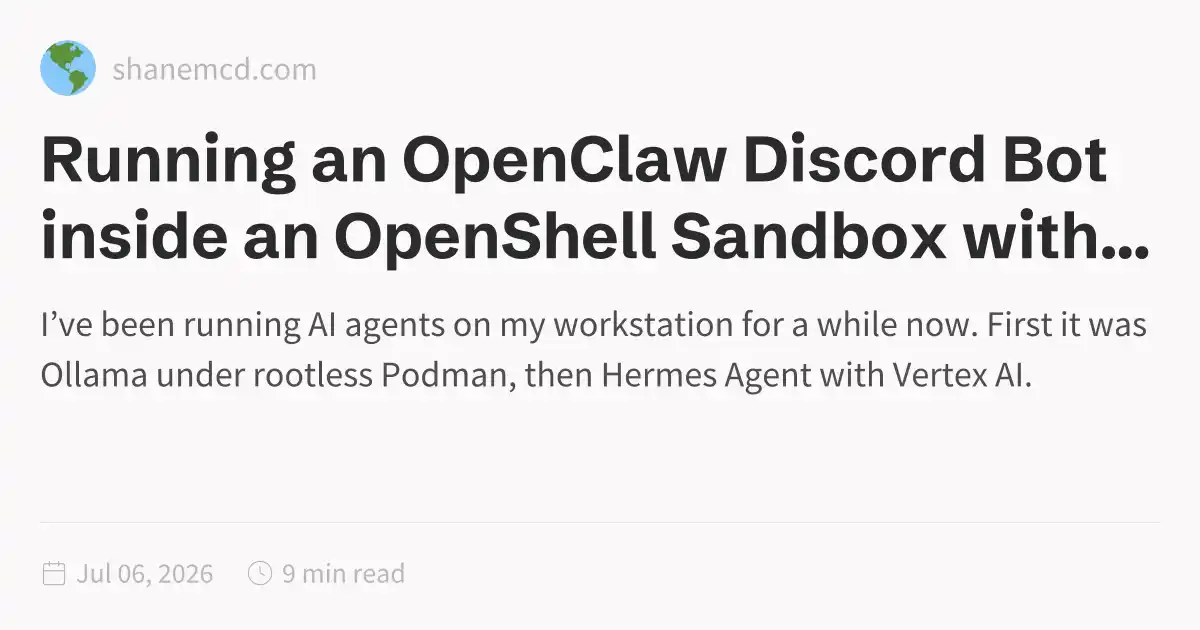
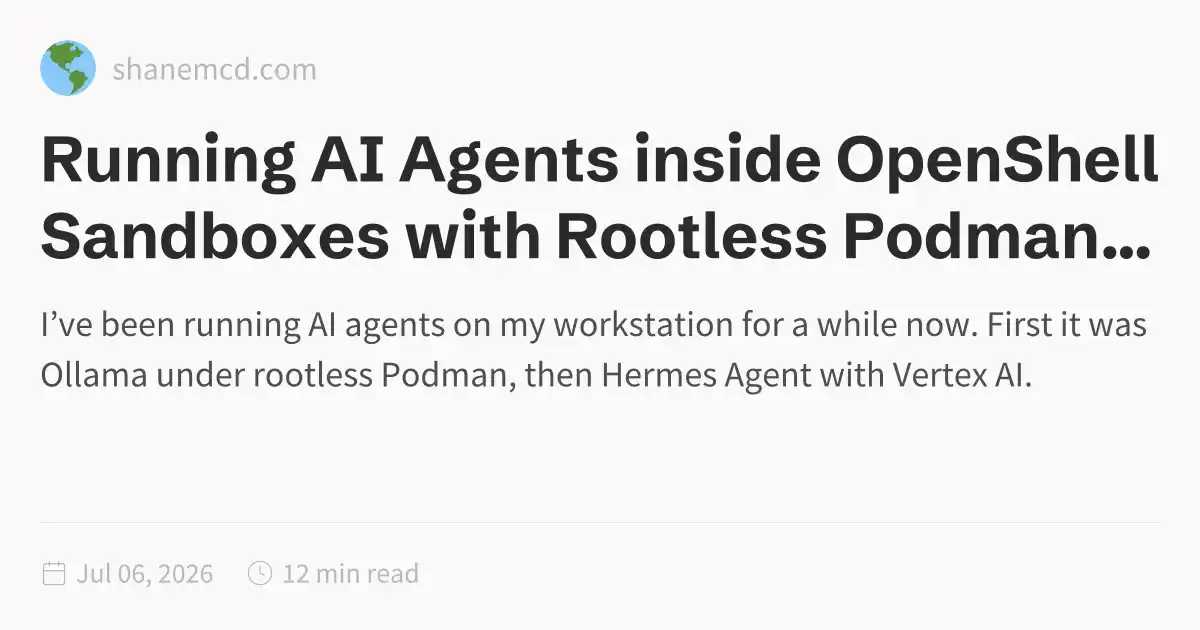
Deploying to gh-pages from @ shanemcd/shanemcd.github.io@943af0d9efcf434de962acb4c6c6cefce33f4240 🚀

Changed region(s): [[0.0308, 0.2111, 0.9867, 0.4222], [0.2158, 0.9048, 0.37, 0.9349], [0.925, 0.3921, 0.9558, 0.4222]]

diff --git a/index.html b/index.html
@@ -116,7 +116,7 @@ pre:hover > .expand-button {
   padding: 0 12px;
   font-size: 14px;
 }
[2 lines of base64/hex data omitted]
 live in Jersey City NJ with my lovely wife Chao, along with our cat Milla and
 our dog Rodger. I am currently employed by <a href="https://www.redhat.com" class="external">Red Hat<svg aria-hidden="true" class="external-icon" style="max-width:0.8em;max-height:0.8em;" viewBox="0 0 512 512"><path d="M320 0H288V64h32 82.7L201.4 265.4 178.7 288 224 333.3l22.6-22.6L448 109.3V192v32h64V192 32 0H480 320zM32 32H0V64 480v32H32 456h32V480 352 320H424v32 96H64V96h96 32V32H160 32z"></path></svg></a> as
 one of the lead engineers for <a href="https://github.com/ansible" class="external">Ansible<svg aria-hidden="true" class="external-icon" style="max-width:0.8em;max-height:0.8em;" viewBox="0 0 512 512"><path d="M320 0H288V64h32 82.7L201.4 265.4 178.7 288 224 333.3l22.6-22.6L448 109.3V192v32h64V192 32 0H480 320zM32 32H0V64 480v32H32 456h32V480 352 320H424v32 96H64V96h96 32V32H160 32z"></path></svg></a>.</p>

diff --git a/posts/03-ollama-rootless-podman-quadlet.html b/posts/03-ollama-rootless-podman-quadlet.html
@@ -172,6 +172,6 @@ $ systemctl --user start ollama.service
                 C46.042,11.405,47.451,12,49,12c3.309,0,6-2.691,6-6S52.309,0,49,0z M11,9c0-1.103,0.897-2,2-2s2,0.897,2,2s-0.897,2-2,2
                 S11,10.103,11,9z M6,51c-2.206,0-4-1.794-4-4s1.794-4,4-4s4,1.794,4,4S8.206,51,6,51z M33,49c0,2.206-1.794,4-4,4s-4-1.794-4-4
                 s1.794-4,4-4S33,46.794,33,49z M29,31c-3.309,0-6-2.691-6-6s2.691-6,6-6s6,2.691,6,6S32.309,31,29,31z M47,41c0,1.103-0.897,2-2,2
-                s-2-0.897-2-2s0.897-2,2-2S47,39.897,47,41z M49,10c-2.206,0-4-1.794-4-4s1.794-4,4-4s4,1.794,4,4S51.206,10,49,10z"></path></svg></button></div><div class="global-graph-outer"><div class="global-graph-container" data-cfg="{&quot;drag&quot;:true,&quot;zoom&quot;:true,&quot;depth&quot;:-1,&quot;scale&quot;:0.9,&quot;repelForce&quot;:0.5,&quot;centerForce&quot;:0.2,&quot;linkDistance&quot;:30,&quot;fontSize&quot;:0.6,&quot;opacityScale&quot;:1,&quot;showTags&quot;:true,&quot;removeTags&quot;:[],&quot;focusOnHover&quot;:true,&quot;enableRadial&quot;:true}"></div></div></div><div class="toc desktop-only"><button type="button" class="toc-header" aria-controls="toc-content" aria-expanded="true"><h3>Table of Contents</h3><svg xmlns="http://www.w3.org/2000/svg" width="24" height="24" viewBox="0 0 24 24" fill="none" stroke="currentColor" stroke-width="2" stroke-linecap="round" stroke-linejoin="round" class="fold"><polyline points="6 9 12 15 18 9"></polyline></svg></button><ul class="toc-content overflow" id="list-0"><li class="depth-0"><a href="#nvidia-gpu-support" data-for="nvidia-gpu-support">NVIDIA GPU support</a></li><li class="depth-1"><a href="#generating-the-cdi-specification-file" data-for="generating-the-cdi-specification-file">Generating the CDI specification file</a></li><li class="depth-0"><a href="#ollama-with-podman-and-quadlet" data-for="ollama-with-podman-and-quadlet">Ollama with Podman and Quadlet</a></li><li class="overflow-end"></li></ul></div><div class="backlinks"><h3>Backlinks</h3><ul id="list-1" class="overflow"><li><a href="../posts/10-openshell-openclaw-podman-discord-bot" class="internal">Running an OpenClaw Discord Bot inside an OpenShell Sandbox with Podman</a></li><li class="overflow-end"></li></ul></div></div><footer class><p>Created with <a href="https://quartz.jzhao.xyz/">Quartz v4.5.0</a> © 2026</p><ul><li><a href="https://github.com/shanemcd">GitHub</a></li></ul></footer></div></div></body><script type="application/javascript">function n(){let t=this.parentElement;t.classList.toggle("is-collapsed");let e=t.getElementsByClassName("callout-content")[0];if(!e)return;let l=t.classList.contains("is-collapsed");e.style.gridTemplateRows=l?"0fr":"1fr"}function c(){let t=document.getElementsByClassName("callout is-collapsible");for(let e of t){let l=e.getElementsByClassName("callout-title")[0],s=e.getElementsByClassName("callout-content")[0];if(!l||!s)continue;l.addEventListener("click",n),window.addCleanup(()=>l.removeEventListener("click",n));let o=e.classList.contains("is-collapsed");s.style.gridTemplateRows=o?"0fr":"1fr"}}document.addEventListener("nav",c);
+                s-2-0.897-2-2s0.897-2,2-2S47,39.897,47,41z M49,10c-2.206,0-4-1.794-4-4s1.794-4,4-4s4,1.794,4,4S51.206,10,49,10z"></path></svg></button></div><div class="global-graph-outer"><div class="global-graph-container" data-cfg="{&quot;drag&quot;:true,&quot;zoom&quot;:true,&quot;depth&quot;:-1,&quot;scale&quot;:0.9,&quot;repelForce&quot;:0.5,&quot;centerForce&quot;:0.2,&quot;linkDistance&quot;:30,&quot;fontSize&quot;:0.6,&quot;opacityScale&quot;:1,&quot;showTags&quot;:true,&quot;removeTags&quot;:[],&quot;focusOnHover&quot;:true,&quot;enableRadial&quot;:true}"></div></div></div><div class="toc desktop-only"><button type="button" class="toc-header" aria-controls="toc-content" aria-expanded="true"><h3>Table of Contents</h3><svg xmlns="http://www.w3.org/2000/svg" width="24" height="24" viewBox="0 0 24 24" fill="none" stroke="currentColor" stroke-width="2" stroke-linecap="round" stroke-linejoin="round" class="fold"><polyline points="6 9 12 15 18 9"></polyline></svg></button><ul class="toc-content overflow" id="list-0"><li class="depth-0"><a href="#nvidia-gpu-support" data-for="nvidia-gpu-support">NVIDIA GPU support</a></li><li class="depth-1"><a href="#generating-the-cdi-specification-file" data-for="generating-the-cdi-specification-file">Generating the CDI specification file</a></li><li class="depth-0"><a href="#ollama-with-podman-and-quadlet" data-for="ollama-with-podman-and-quadlet">Ollama with Podman and Quadlet</a></li><li class="overflow-end"></li></ul></div><div class="backlinks"><h3>Backlinks</h3><ul id="list-1" class="overflow"><li><a href="../posts/10-openshell-openclaw-podman-discord-bot" class="internal">Running AI Agents inside OpenShell Sandboxes with Rootless Podman</a></li><li class="overflow-end"></li></ul></div></div><footer class><p>Created with <a href="https://quartz.jzhao.xyz/">Quartz v4.5.0</a> © 2026</p><ul><li><a href="https://github.com/shanemcd">GitHub</a></li></ul></footer></div></div></body><script type="application/javascript">function n(){let t=this.parentElement;t.classList.toggle("is-collapsed");let e=t.getElementsByClassName("callout-content")[0];if(!e)return;let l=t.classList.contains("is-collapsed");e.style.gridTemplateRows=l?"0fr":"1fr"}function c(){let t=document.getElementsByClassName("callout is-collapsible");for(let e of t){let l=e.getElementsByClassName("callout-title")[0],s=e.getElementsByClassName("callout-content")[0];if(!l||!s)continue;l.addEventListener("click",n),window.addCleanup(()=>l.removeEventListener("click",n));let o=e.classList.contains("is-collapsed");s.style.gridTemplateRows=o?"0fr":"1fr"}}document.addEventListener("nav",c);
 </script><script type="module">function f(i,e){if(!i)return;function r(o){o.target===this&&(o.preventDefault(),o.stopPropagation(),e())}function t(o){o.key.startsWith("Esc")&&(o.preventDefault(),e())}i?.addEventListener("click",r),window.addCleanup(()=>i?.removeEventListener("click",r)),document.addEventListener("keydown",t),window.addCleanup(()=>document.removeEventListener("keydown",t))}function y(i){for(;i.firstChild;)i.removeChild(i.firstChild)}var h=class{constructor(e,r){this.container=e;this.content=r;this.setupEventListeners(),this.setupNavigationControls(),this.resetTransform()}isDragging=!1;startPan={x:0,y:0};currentPan={x:0,y:0};scale=1;MIN_SCALE=.5;MAX_SCALE=3;cleanups=[];setupEventListeners(){let e=this.onMouseDown.bind(this),r=this.onMouseMove.bind(this),t=this.onMouseUp.bind(this),o=this.resetTransform.bind(this);this.container.addEventListener("mousedown",e),document.addEventListener("mousemove",r),document.addEventListener("mouseup",t),window.addEventListener("resize",o),this.cleanups.push(()=>this.container.removeEventListener("mousedown",e),()=>document.removeEventListener("mousemove",r),()=>document.removeEventListener("mouseup",t),()=>window.removeEventListener("resize",o))}cleanup(){for(let e of this.cleanups)e()}setupNavigationControls(){let e=document.createElement("div");e.className="mermaid-controls";let r=this.createButton("+",()=>this.zoom(.1)),t=this.createButton("-",()=>this.zoom(-.1)),o=this.createButton("Reset",()=>this.resetTransform());e.appendChild(t),e.appendChild(o),e.appendChild(r),this.container.appendChild(e)}createButton(e,r){let t=document.createElement("button");return t.textContent=e,t.className="mermaid-control-button",t.addEventListener("click",r),window.addCleanup(()=>t.removeEventListener("click",r)),t}onMouseDown(e){e.button===0&&(this.isDragging=!0,this.startPan={x:e.clientX-this.currentPan.x,y:e.clientY-this.currentPan.y},this.container.style.cursor="grabbing")}onMouseMove(e){this.isDragging&&(e.preventDefault(),this.currentPan={x:e.clientX-this.startPan.x,y:e.clientY-this.startPan.y},this.updateTransform())}onMouseUp(){this.isDragging=!1,this.container.style.cursor="grab"}zoom(e){let r=Math.min(Math.max(this.scale+e,this.MIN_SCALE),this.MAX_SCALE),t=this.content.getBoundingClientRect(),o=t.width/2,n=t.height/2,c=r-this.scale;this.currentPan.x-=o*c,this.currentPan.y-=n*c,this.scale=r,this.updateTransform()}updateTransform(){this.content.style.transform=`translate(${this.currentPan.x}px, ${this.currentPan.y}px) scale(${this.scale})`}resetTransform(){this.scale=1;let e=this.content.querySelector("svg");this.currentPan={x:e.getBoundingClientRect().width/2,y:e.getBoundingClientRect().height/2},this.updateTransform()}},C=["--secondary","--tertiary","--gray","--light","--lightgray","--highlight","--dark","--darkgray","--codeFont"],E;document.addEventListener("nav",async()=>{let e=document.querySelector(".center").querySelectorAll("code.mermaid");if(e.length===0)return;E||=await import("https://cdnjs.cloudflare.com/ajax/libs/mermaid/11.4.0/mermaid.esm.min.mjs");let r=E.default,t=new WeakMap;for(let n of e)t.set(n,n.innerText);async function o(){for(let s of e){s.removeAttribute("data-processed");let a=t.get(s);a&&(s.innerHTML=a)}let n=C.reduce((s,a)=>(s[a]=window.getComputedStyle(document.documentElement).getPropertyValue(a),s),{}),c=document.documentElement.getAttribute("saved-theme")==="dark";r.initialize({startOnLoad:!1,securityLevel:"loose",theme:c?"dark":"base",themeVariables:{fontFamily:n["--codeFont"],primaryColor:n["--light"],primaryTextColor:n["--darkgray"],primaryBorderColor:n["--tertiary"],lineColor:n["--darkgray"],secondaryColor:n["--secondary"],tertiaryColor:n["--tertiary"],clusterBkg:n["--light"],edgeLabelBackground:n["--highlight"]}}),await r.run({nodes:e})}await o(),document.addEventListener("themechange",o),window.addCleanup(()=>document.removeEventListener("themechange",o));for(let n=0;n<e.length;n++){let v=function(){let g=l.querySelector("#mermaid-space"),m=l.querySelector(".mermaid-content");if(!m)return;y(m);let w=c.querySelector("svg").cloneNode(!0);m.appendChild(w),l.classList.add("active"),g.style.cursor="grab",u=new h(g,m)},M=function(){l.classList.remove("active"),u?.cleanup(),u=null},c=e[n],s=c.parentElement,a=s.querySelector(".clipboard-button"),d=s.querySelector(".expand-button"),p=window.getComputedStyle(a),L=a.offsetWidth+parseFloat(p.marginLeft||"0")+parseFloat(p.marginRight||"0");d.style.right=`calc(${L}px + 0.3rem)`,s.prepend(d);let l=s.querySelector("#mermaid-container");if(!l)return;let u=null;d.addEventListener("click",v),f(l,M),window.addCleanup(()=>{u?.cleanup(),d.removeEventListener("click",v)})}});
 </script><script src="https://cdn.jsdelivr.net/npm/katex@0.16.11/dist/contrib/copy-tex.min.js" type="application/javascript"></script><script src="../postscript.js" type="module"></script></html>

diff --git a/posts/index.html b/posts/index.html
@@ -116,6 +116,6 @@ pre:hover > .expand-button {
   padding: 0 12px;
   font-size: 14px;
 }
[2 lines of base64/hex data omitted]
 </script><script type="module">function f(i,e){if(!i)return;function r(o){o.target===this&&(o.preventDefault(),o.stopPropagation(),e())}function t(o){o.key.startsWith("Esc")&&(o.preventDefault(),e())}i?.addEventListener("click",r),window.addCleanup(()=>i?.removeEventListener("click",r)),document.addEventListener("keydown",t),window.addCleanup(()=>document.removeEventListener("keydown",t))}function y(i){for(;i.firstChild;)i.removeChild(i.firstChild)}var h=class{constructor(e,r){this.container=e;this.content=r;this.setupEventListeners(),this.setupNavigationControls(),this.resetTransform()}isDragging=!1;startPan={x:0,y:0};currentPan={x:0,y:0};scale=1;MIN_SCALE=.5;MAX_SCALE=3;cleanups=[];setupEventListeners(){let e=this.onMouseDown.bind(this),r=this.onMouseMove.bind(this),t=this.onMouseUp.bind(this),o=this.resetTransform.bind(this);this.container.addEventListener("mousedown",e),document.addEventListener("mousemove",r),document.addEventListener("mouseup",t),window.addEventListener("resize",o),this.cleanups.push(()=>this.container.removeEventListener("mousedown",e),()=>document.removeEventListener("mousemove",r),()=>document.removeEventListener("mouseup",t),()=>window.removeEventListener("resize",o))}cleanup(){for(let e of this.cleanups)e()}setupNavigationControls(){let e=document.createElement("div");e.className="mermaid-controls";let r=this.createButton("+",()=>this.zoom(.1)),t=this.createButton("-",()=>this.zoom(-.1)),o=this.createButton("Reset",()=>this.resetTransform());e.appendChild(t),e.appendChild(o),e.appendChild(r),this.container.appendChild(e)}createButton(e,r){let t=document.createElement("button");return t.textContent=e,t.className="mermaid-control-button",t.addEventListener("click",r),window.addCleanup(()=>t.removeEventListener("click",r)),t}onMouseDown(e){e.button===0&&(this.isDragging=!0,this.startPan={x:e.clientX-this.currentPan.x,y:e.clientY-this.currentPan.y},this.container.style.cursor="grabbing")}onMouseMove(e){this.isDragging&&(e.preventDefault(),this.currentPan={x:e.clientX-this.startPan.x,y:e.clientY-this.startPan.y},this.updateTransform())}onMouseUp(){this.isDragging=!1,this.container.style.cursor="grab"}zoom(e){let r=Math.min(Math.max(this.scale+e,this.MIN_SCALE),this.MAX_SCALE),t=this.content.getBoundingClientRect(),o=t.width/2,n=t.height/2,c=r-this.scale;this.currentPan.x-=o*c,this.currentPan.y-=n*c,this.scale=r,this.updateTransform()}updateTransform(){this.content.style.transform=`translate(${this.currentPan.x}px, ${this.currentPan.y}px) scale(${this.scale})`}resetTransform(){this.scale=1;let e=this.content.querySelector("svg");this.currentPan={x:e.getBoundingClientRect().width/2,y:e.getBoundingClientRect().height/2},this.updateTransform()}},C=["--secondary","--tertiary","--gray","--light","--lightgray","--highlight","--dark","--darkgray","--codeFont"],E;document.addEventListener("nav",async()=>{let e=document.querySelector(".center").querySelectorAll("code.mermaid");if(e.length===0)return;E||=await import("https://cdnjs.cloudflare.com/ajax/libs/mermaid/11.4.0/mermaid.esm.min.mjs");let r=E.default,t=new WeakMap;for(let n of e)t.set(n,n.innerText);async function o(){for(let s of e){s.removeAttribute("data-processed");let a=t.get(s);a&&(s.innerHTML=a)}let n=C.reduce((s,a)=>(s[a]=window.getComputedStyle(document.documentElement).getPropertyValue(a),s),{}),c=document.documentElement.getAttribute("saved-theme")==="dark";r.initialize({startOnLoad:!1,securityLevel:"loose",theme:c?"dark":"base",themeVariables:{fontFamily:n["--codeFont"],primaryColor:n["--light"],primaryTextColor:n["--darkgray"],primaryBorderColor:n["--tertiary"],lineColor:n["--darkgray"],secondaryColor:n["--secondary"],tertiaryColor:n["--tertiary"],clusterBkg:n["--light"],edgeLabelBackground:n["--highlight"]}}),await r.run({nodes:e})}await o(),document.addEventListener("themechange",o),window.addCleanup(()=>document.removeEventListener("themechange",o));for(let n=0;n<e.length;n++){let v=function(){let g=l.querySelector("#mermaid-space"),m=l.querySelector(".mermaid-content");if(!m)return;y(m);let w=c.querySelector("svg").cloneNode(!0);m.appendChild(w),l.classList.add("active"),g.style.cursor="grab",u=new h(g,m)},M=function(){l.classList.remove("active"),u?.cleanup(),u=null},c=e[n],s=c.parentElement,a=s.querySelector(".clipboard-button"),d=s.querySelector(".expand-button"),p=window.getComputedStyle(a),L=a.offsetWidth+parseFloat(p.marginLeft||"0")+parseFloat(p.marginRight||"0");d.style.right=`calc(${L}px + 0.3rem)`,s.prepend(d);let l=s.querySelector("#mermaid-container");if(!l)return;let u=null;d.addEventListener("click",v),f(l,M),window.addCleanup(()=>{u?.cleanup(),d.removeEventListener("click",v)})}});
 </script><script src="https://cdn.jsdelivr.net/npm/katex@0.16.11/dist/contrib/copy-tex.min.js" type="application/javascript"></script><script src="../postscript.js" type="module"></script></html>